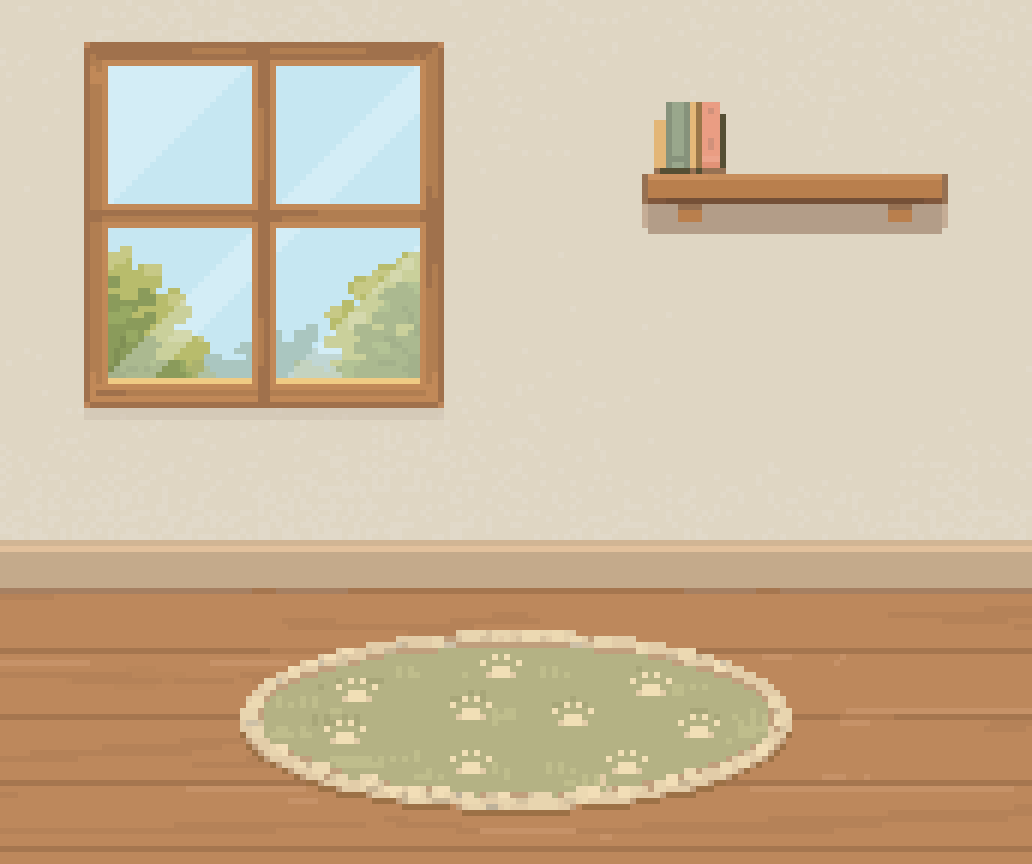
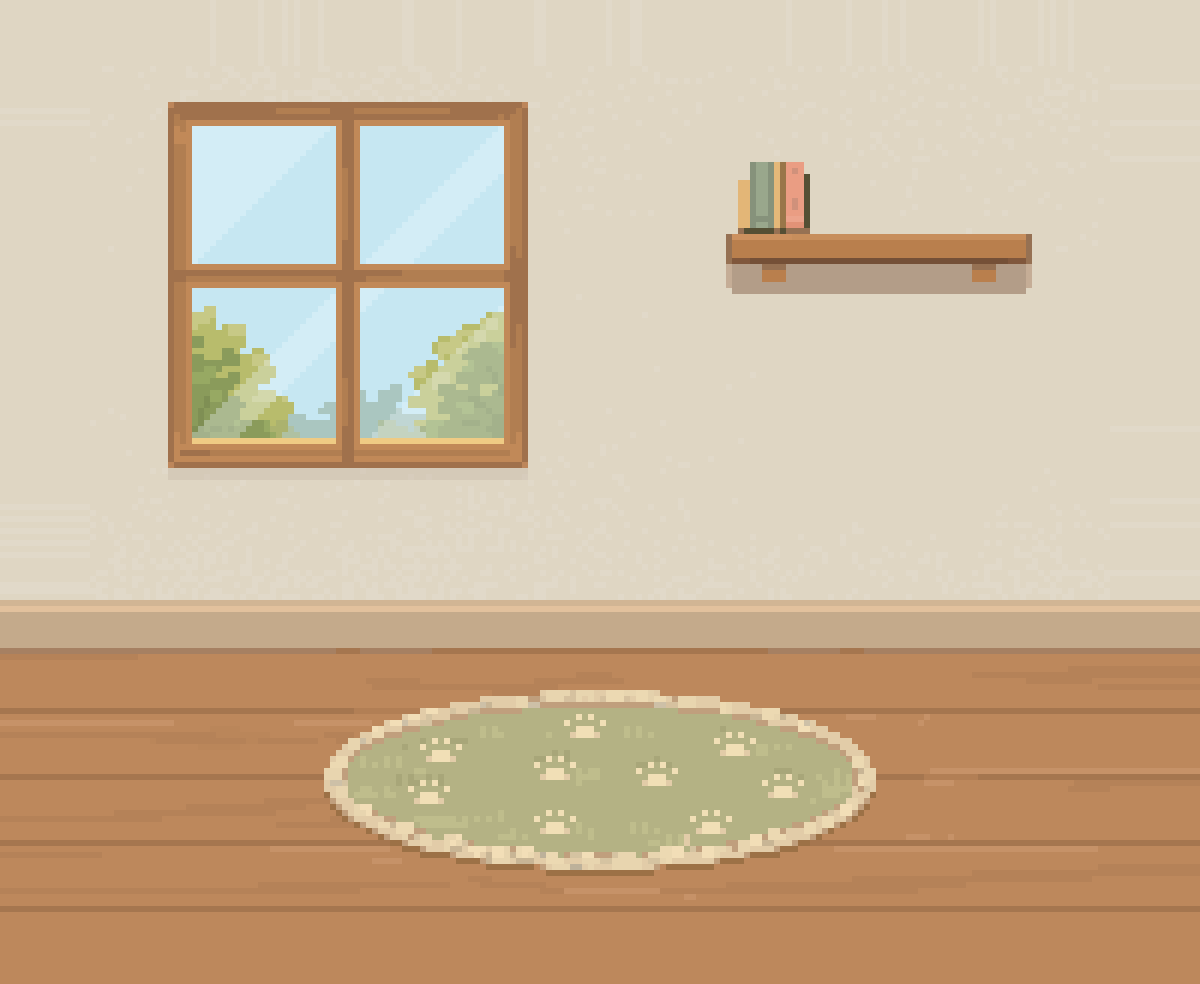
fix(Lumi-1020): room zoomed out + vase/frame always visible
- room-bg.png regenerated: the 172×144 art edge-extended to 200×164
  (wall/floor continue into the padding), so the scene renders ~14%
  smaller in the same hero box — owner asked for a zoom-out. All
  content coords shift by the baked offset (OX 14, OY 10); Luna
  scales with the room (GIF box 64→56).
- The cat vase + cat frame no longer hide behind vitality fade-in
  thresholds — a brand-new account couldn't see them at all. The
  commissioned set is always on the wall; vitality keeps driving the
  room's LIGHT instead.

Changed region(s): [[0.0, 0.5938, 1.0, 0.9688], [0.062, 0.0312, 0.4651, 0.5], [0.5891, 0.0938, 0.9302, 0.3125]]

diff --git a/app/(tabs)/me.tsx b/app/(tabs)/me.tsx
@@ -345,8 +345,14 @@ const Room = ({
   // of the score": a dim veil lifts as vitality climbs, honey warmth
   // settles in on good days, and decor pieces fade in at the same
   // thresholds the old drawn props used (vase ~30, frame ~55).
-  const kx = W / 172; // all placement below is in art coords × k
-  const ky = H / 144;
+  // The bg asset is the 172×144 art edge-extended to 200×164 so the
+  // scene sits zoomed OUT a touch (owner request) — wall and floor
+  // continue into the padding. Content coords below are original art
+  // coords + the padding offset.
+  const kx = W / 200;
+  const ky = H / 164;
+  const OX = 14; // padding offset baked into room-bg.png
+  const OY = 10;
   // The window shows the USER'S sky, not the mood — stars at noon /
   // sunshine at midnight read as a broken clock (audit B4). The art's
   // glass is painted daytime; at night a deep-blue pane with a few
@@ -355,8 +361,6 @@ const Room = ({
   const isNightSky = hourNow < 6 || hourNow >= 20;
   const dimAlpha = Math.min(1, Math.max(0, (1 - v) * 0.2 + (isNightSky ? 0.08 : 0)));
   const warmAlpha = Math.min(1, Math.max(0, v * 0.1));
-  const vaseFade = Math.max(0, Math.min(1, (v - 0.3) / 0.2));
-  const frameFade = Math.max(0, Math.min(1, (v - 0.55) / 0.2));
 
   // Luna mood + position. Joy spikes (tap-to-cheer) amplify the bob
   // for ~80 frames so the cat visibly reacts to a tap.
@@ -375,12 +379,12 @@ const Room = ({
           ? Math.sin(S.t * 0.025) * 0.7
           : Math.sin(S.t * 0.05) * 1.2) * joyAmp;
   // Rug center in the art ≈ (85, 121) — Luna lives on the rug.
-  const lunaX = 85 * kx;
-  const lunaY = 121 * ky - 6 + lunaBob;
+  const lunaX = (85 + OX) * kx;
+  const lunaY = (121 + OY) * ky - 6 + lunaBob;
 
   // GIF cat: anchor the sprite's center on lunaX and its FEET on
   // lunaY+12 so the cat plants on the rug naturally.
-  const GIF_SIZE = 64;
+  const GIF_SIZE = 56;
   const gifLeft = lunaX - GIF_SIZE / 2;
   const gifTop = lunaY + 12 - GIF_SIZE;
 
@@ -393,14 +397,13 @@ const Room = ({
       style={{ position: 'absolute', left: 0, top: 0, width: W, height: H }}
       resizeMode="stretch"
     />
-    {/* Decor — the cabinet is furniture (always there); the vase and
-        frame are the room warming up, fading in with vitality. */}
+    {/* Decor — the cat cabinet, vase and frame (commissioned set) */}
     <Image
       source={ROOM_CABINET}
       style={{
         position: 'absolute',
-        left: 101 * kx,
-        top: 65 * ky,
+        left: (101 + OX) * kx,
+        top: (65 + OY) * ky,
         width: 67 * kx,
         height: 43 * ky,
       }}
@@ -410,11 +413,10 @@ const Room = ({
       source={ROOM_VASE}
       style={{
         position: 'absolute',
-        left: 110 * kx,
-        top: 48 * ky,
+        left: (110 + OX) * kx,
+        top: (48 + OY) * ky,
         width: 16 * kx,
         height: 18 * ky,
-        opacity: vaseFade,
       }}
       resizeMode="stretch"
     />
@@ -422,11 +424,10 @@ const Room = ({
       source={ROOM_FRAME}
       style={{
         position: 'absolute',
-        left: 138 * kx,
-        top: 40 * ky,
+        left: (138 + OX) * kx,
+        top: (40 + OY) * ky,
         width: 16 * kx,
         height: 17 * ky,
-        opacity: frameFade,
       }}
       resizeMode="stretch"
     />
@@ -436,8 +437,8 @@ const Room = ({
         pointerEvents="none"
         style={{
           position: 'absolute',
-          left: 18 * kx,
-          top: 11 * ky,
+          left: (18 + OX) * kx,
+          top: (11 + OY) * ky,
           width: 52 * kx,
           height: 52 * ky,
           backgroundColor: 'rgba(18,22,48,0.82)',
